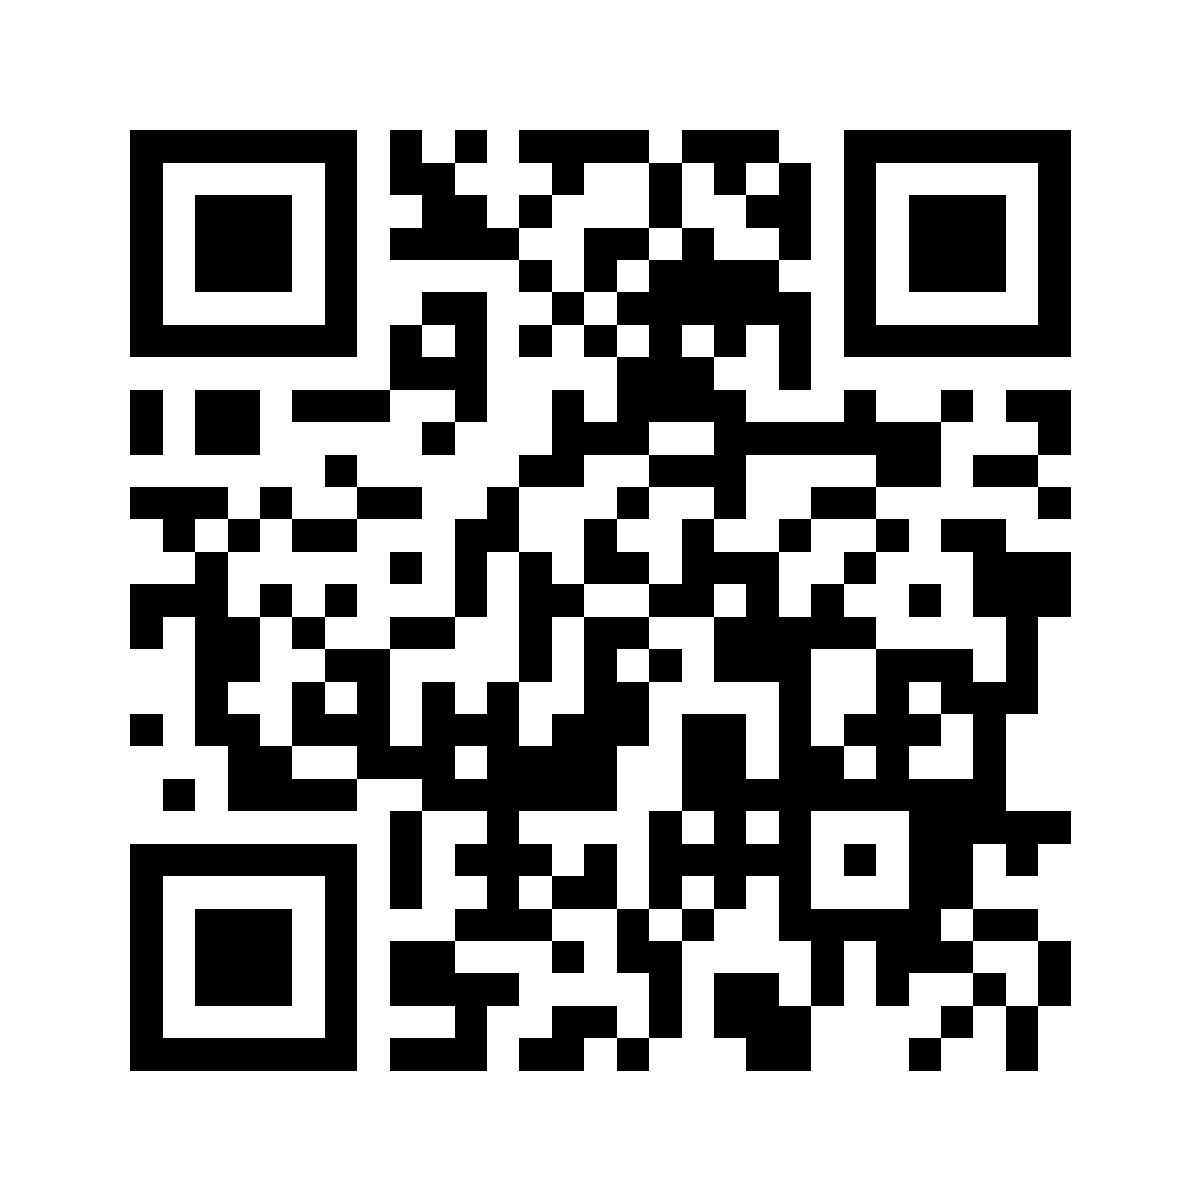
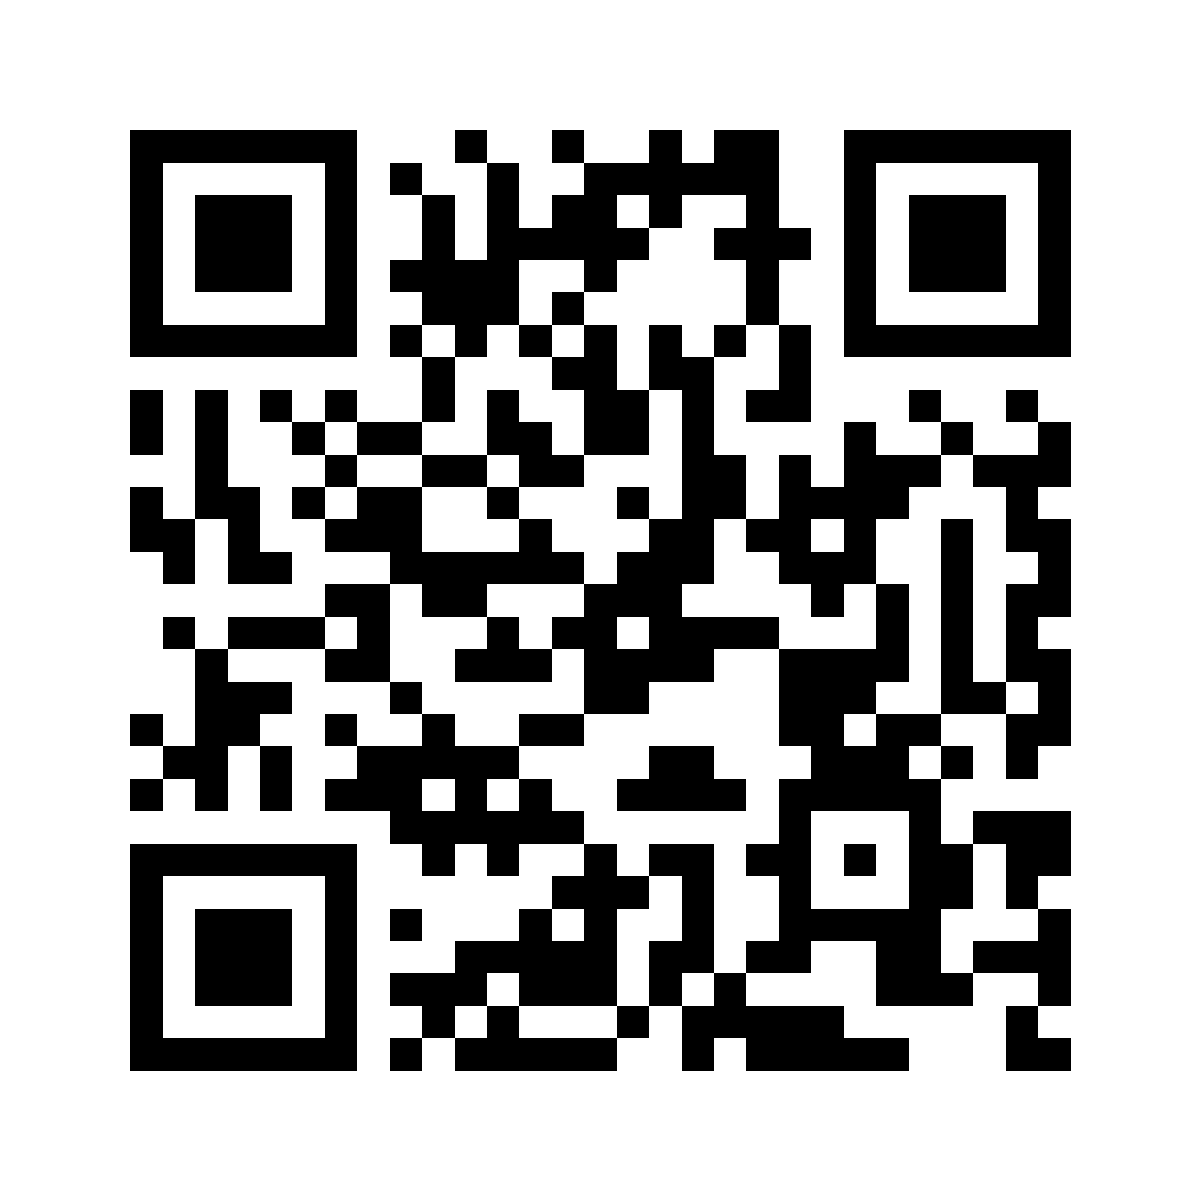
Point app link and QR code to masar-najran.vercel.app
Claude-Session: https://claude.ai/code/session_016QgUM9v5Xy2gKw9Ju5iGyf

Changed region(s): [[0.0925, 0.0925, 0.8942, 0.8942], [0.7708, 0.5242, 0.8942, 0.7092], [0.8633, 0.8633, 0.8942, 0.8942]]

diff --git a/src/pages/Profile.jsx b/src/pages/Profile.jsx
@@ -107,7 +107,7 @@ export default function Profile() {
         <div>
           <h3>امسح لتجربة تطبيق مسار نجران</h3>
           <p className="muted small" dir="ltr">
-            najran-transit.vercel.app
+            masar-najran.vercel.app
           </p>
           <p className="fine-print">هذا رمز لفتح النموذج فقط، وليس تذكرة ولا رمز دفع.</p>
           <div className="btn-row">

diff --git a/src/data/config.js b/src/data/config.js
@@ -11,5 +11,5 @@ export const DEMO_CONFIG = {
   simTickMs: 1000,
   // سرعة تحريك الحافلة على الخريطة عند «محاكاة وصول الحافلة»
   fastForwardMs: 6000,
-  appUrl: 'https://najran-transit.vercel.app/',
+  appUrl: 'https://masar-najran.vercel.app/',
 }

diff --git a/README.md b/README.md
@@ -23,7 +23,7 @@ npm run test:e2e     # SHOTS=./shots لحفظ لقطات الشاشة
 
 المشروع Vite + React مثل النسخة السابقة؛ إعدادات Vercel الافتراضية تعمل كما هي:
 Build Command `npm run build` ، Output Directory `dist`.
-لم يُنشر شيء على https://najran-transit.vercel.app/ — النشر بقرارك:
+لم يُنشر شيء على https://masar-najran.vercel.app/ — النشر بقرارك:
 ارفع الملفات إلى مستودع المشروع المرتبط بـ Vercel، أو من جهازك: `npx vercel --prod`.
 
 ## ما الذي تغيّر
@@ -72,7 +72,7 @@ Build Command `npm run build` ، Output Directory `dist`.
 
 ## رمز QR
 
-`public/qr/najran-transit-app-qr.png` (1200×1200) و`.svg` — يفتح https://najran-transit.vercel.app/ ،
+`public/qr/najran-transit-app-qr.png` (1200×1200) و`.svg` — يفتح https://masar-najran.vercel.app/ ،
 تصحيح أخطاء M، منطقة هادئة 4 وحدات، بلا شعار في المنتصف. تم التحقق من فكّه برمجيًا؛ يُنصح بتجربة المسح بكاميرا الهاتف.
 يظهر داخل التطبيق في «حسابي ← جرّب التطبيق».
 
